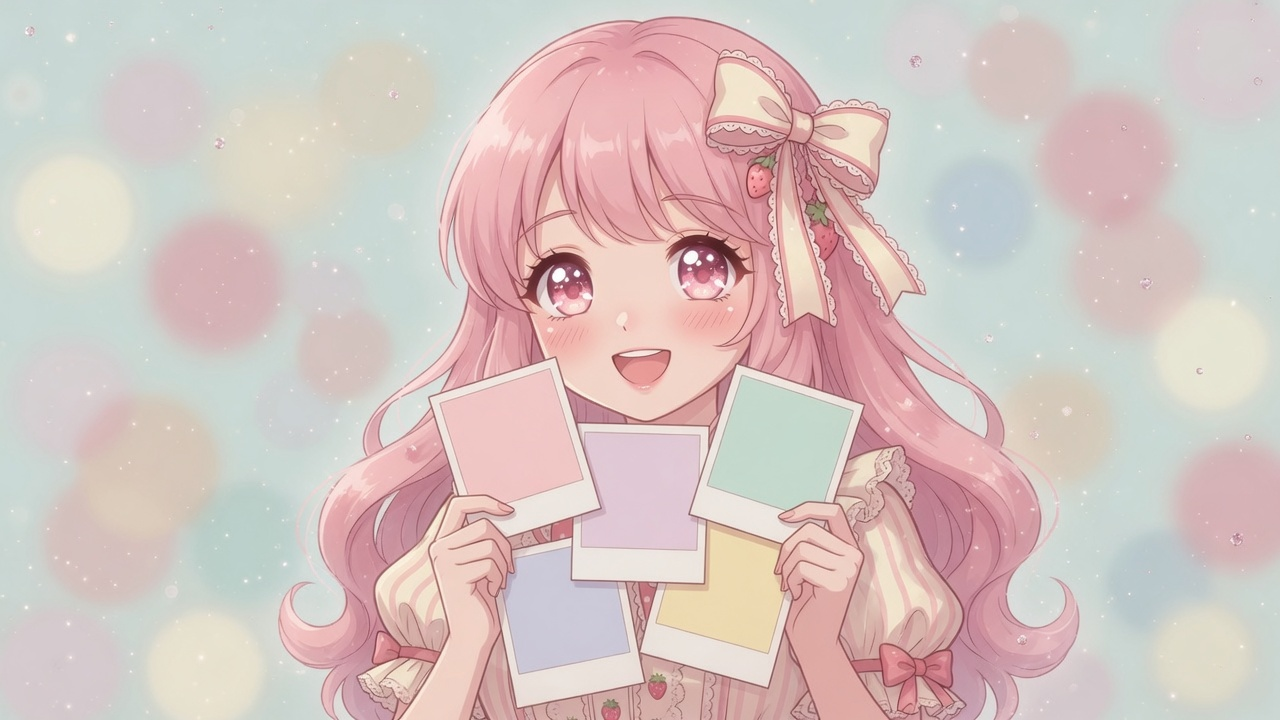
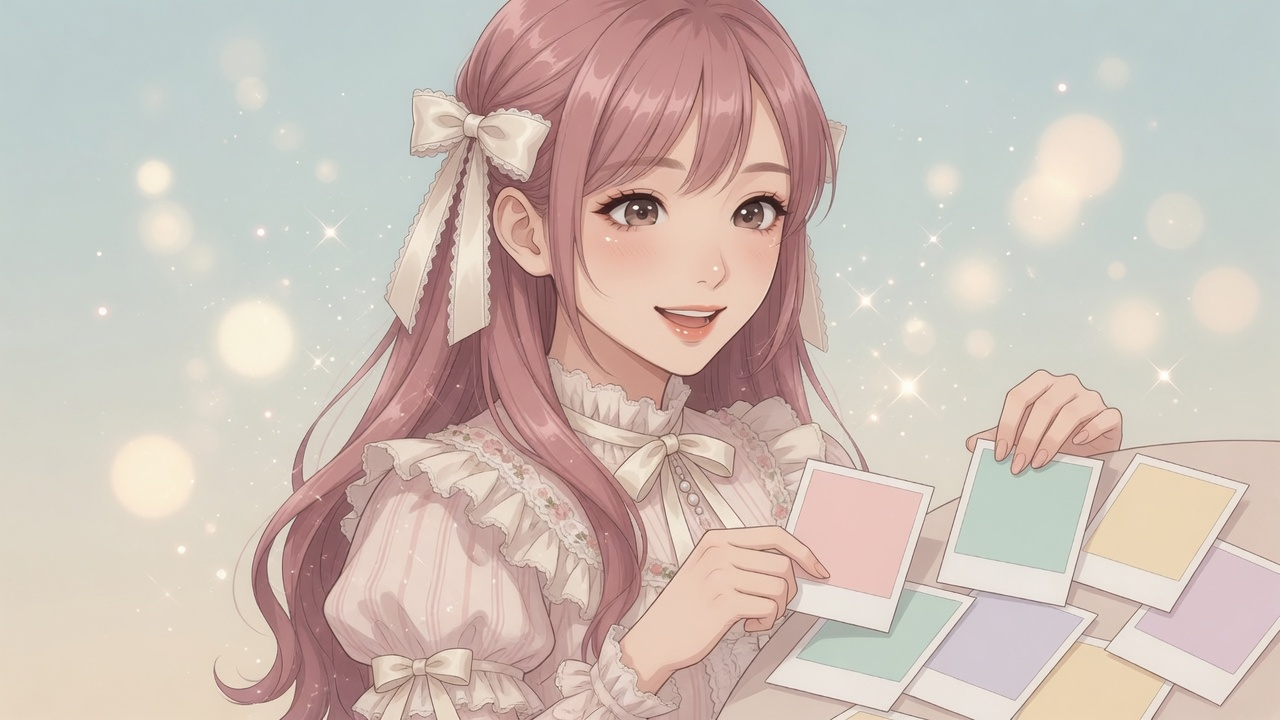
feat: modern V-line sweet-girl covers on cv.cm
Redraw tool covers with a cuter 甜妹 look and a small refined face closer to current anime beauty.

diff --git a/src/client/covers.ts b/src/client/covers.ts
@@ -1,8 +1,8 @@
 import type { ToolId } from "../shared/path";
 
 export const COVER: Record<ToolId, string> = {
-  watermark: "/covers/watermark.jpg?v=2",
-  collage: "/covers/collage.jpg?v=2",
-  convert: "/covers/convert.jpg?v=2",
-  "image-pdf": "/covers/image-pdf.jpg?v=2",
+  watermark: "/covers/watermark.jpg?v=3",
+  collage: "/covers/collage.jpg?v=3",
+  convert: "/covers/convert.jpg?v=3",
+  "image-pdf": "/covers/image-pdf.jpg?v=3",
 };
